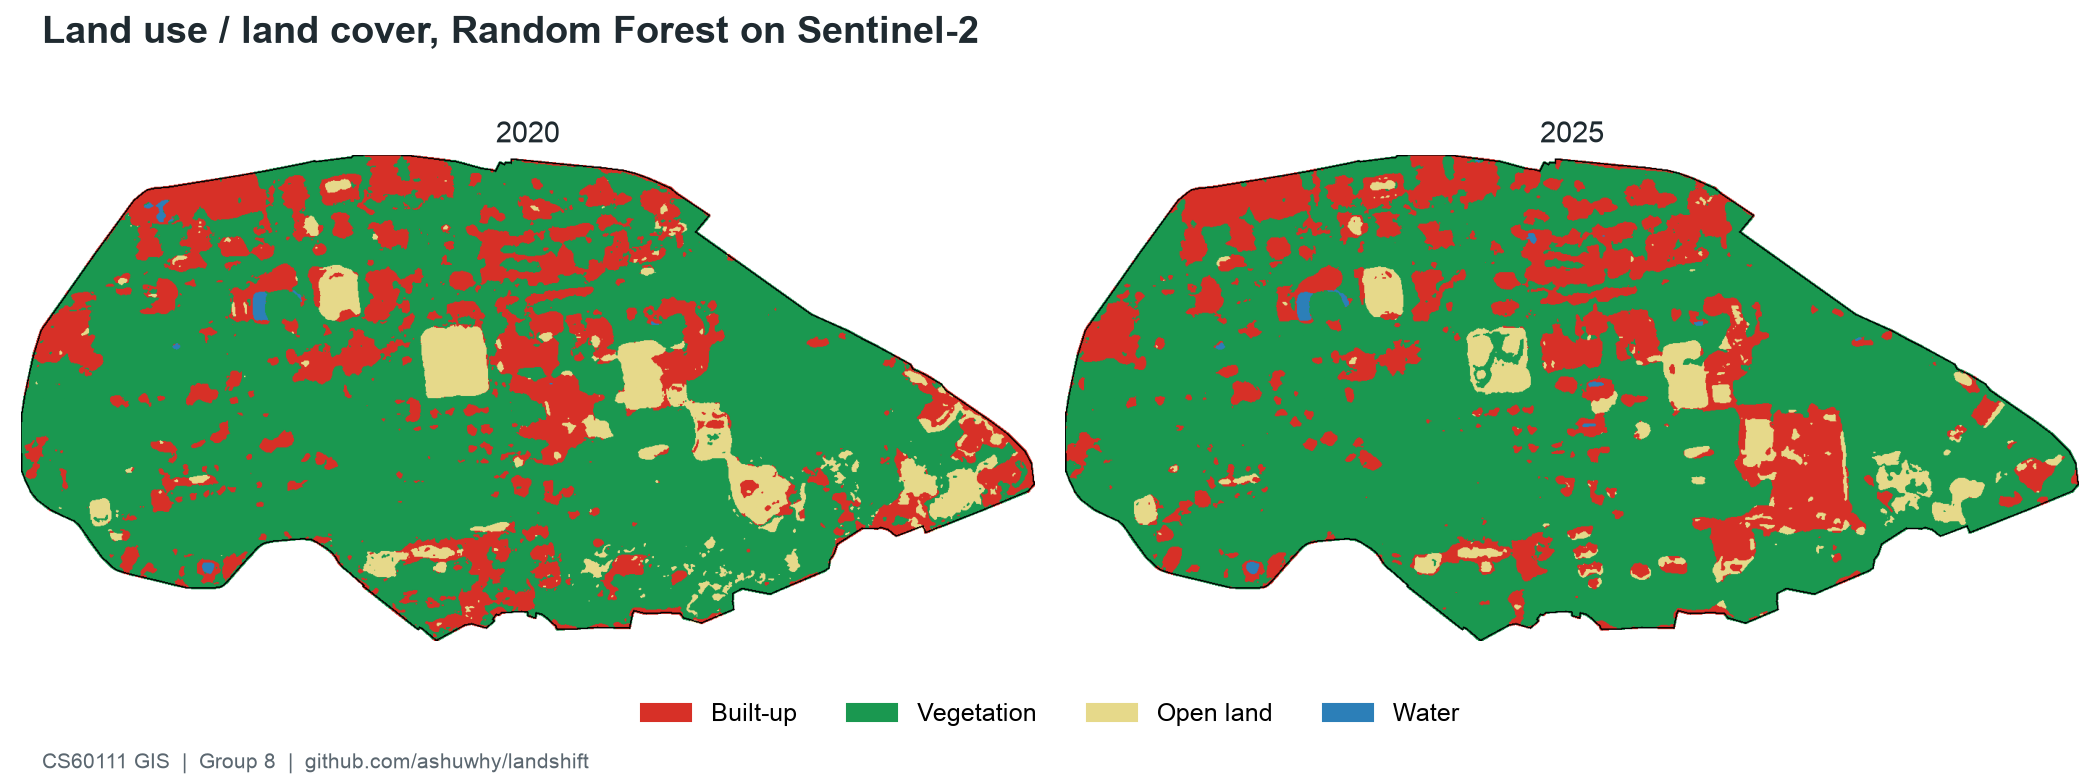
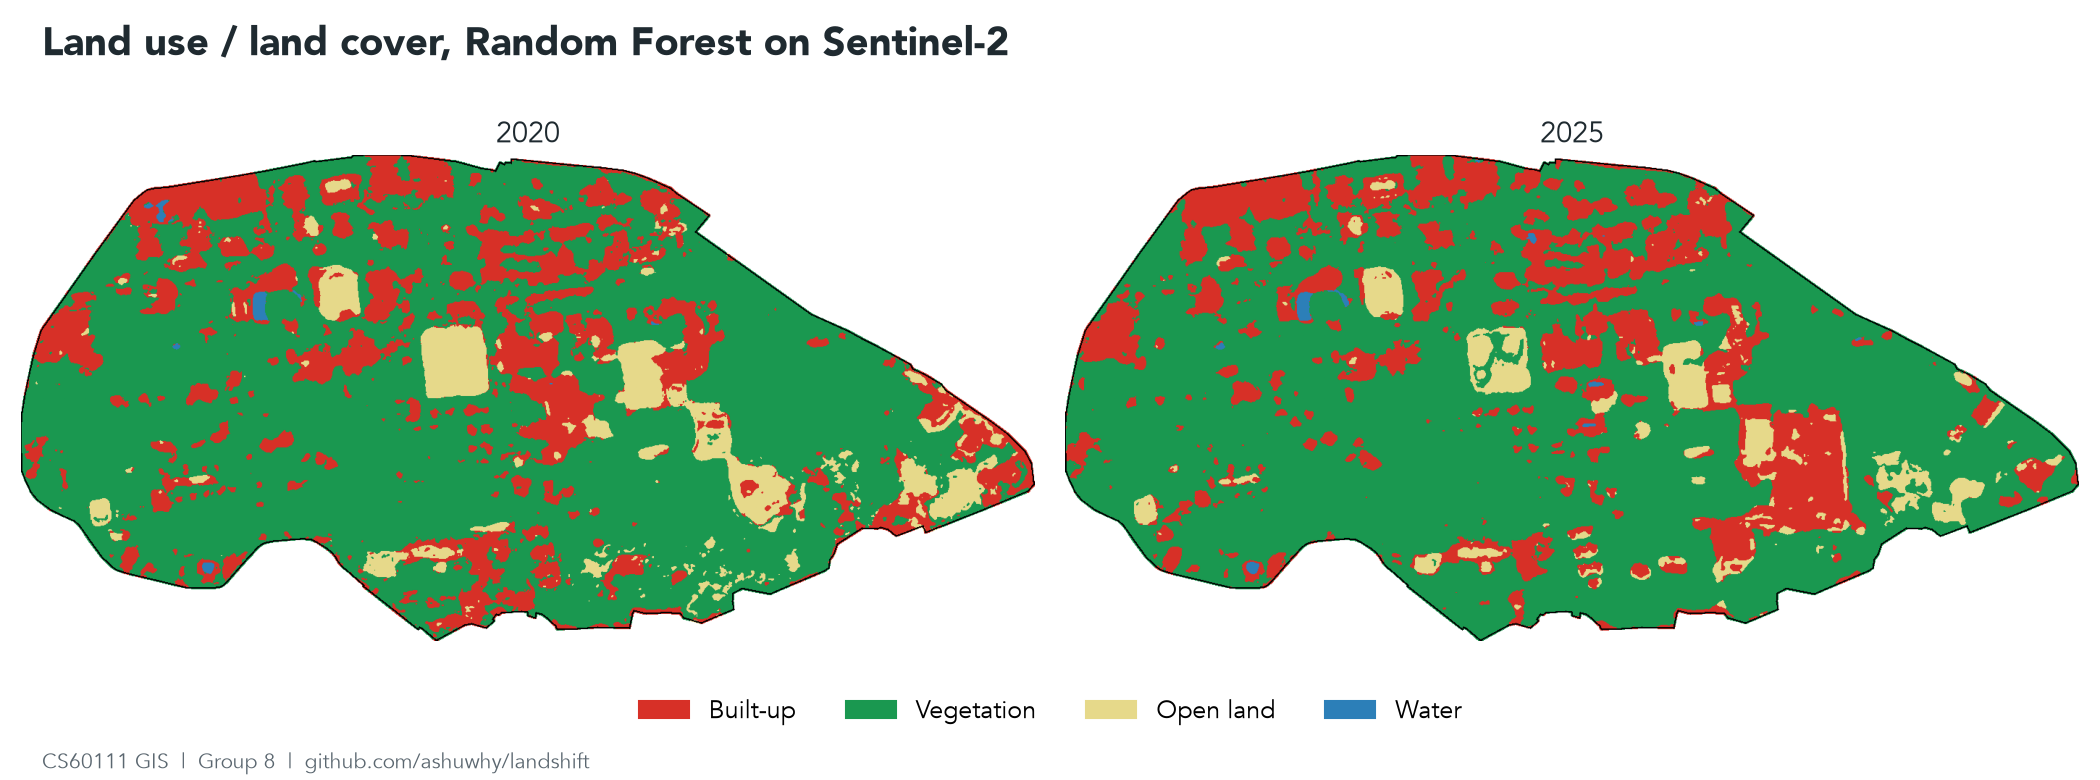
Set figure font to Avenir, add --bare mode for slide figures

diff --git a/scripts/make_figures.py b/scripts/make_figures.py
@@ -1,4 +1,8 @@
-"""README and slide figures from results/. Usage: python scripts/make_figures.py . docs/img"""
+"""README and slide figures from results/.
+
+Usage: python scripts/make_figures.py . docs/img [--bare]
+--bare drops the figure title and footer, for slides that carry their own.
+"""
 import json
 import sys
 from pathlib import Path
@@ -9,11 +13,12 @@ import matplotlib.pyplot as plt
 from matplotlib.patches import Patch
 
 REPO, OUT = Path(sys.argv[1]), Path(sys.argv[2])
+BARE = '--bare' in sys.argv
 OUT.mkdir(parents=True, exist_ok=True)
 RES = REPO / 'results'
 r = json.load(open(RES / 'results.json'))
 
-plt.rcParams.update({'font.family': 'Arial', 'font.size': 12, 'axes.titlesize': 14,
+plt.rcParams.update({'font.family': ['Avenir', 'Avenir Next', 'DejaVu Sans'], 'font.size': 12, 'axes.titlesize': 14,
                      'axes.spines.top': False, 'axes.spines.right': False})
 NAMES = ['Built-up', 'Vegetation', 'Open land', 'Water']
 COLS = ['#d73027', '#1a9850', '#e6d98a', '#2c7fb8']
@@ -23,8 +28,9 @@ SCENES = {y: len(r[y]['scenes']) for y in ('2020', '2025')}
 
 
 def finish(fig, name, title):
-    fig.suptitle(title, x=0.02, ha='left', fontsize=18, fontweight='bold', color=INK)
-    fig.text(0.02, 0.015, FOOT, fontsize=10, color=MUTED)
+    if not BARE:
+        fig.suptitle(title, x=0.02, ha='left', fontsize=19, fontweight='heavy', color=INK)
+        fig.text(0.02, 0.015, FOOT, fontsize=10, color=MUTED)
     fig.savefig(OUT / name, dpi=150, facecolor='white')
     plt.close(fig)
 
